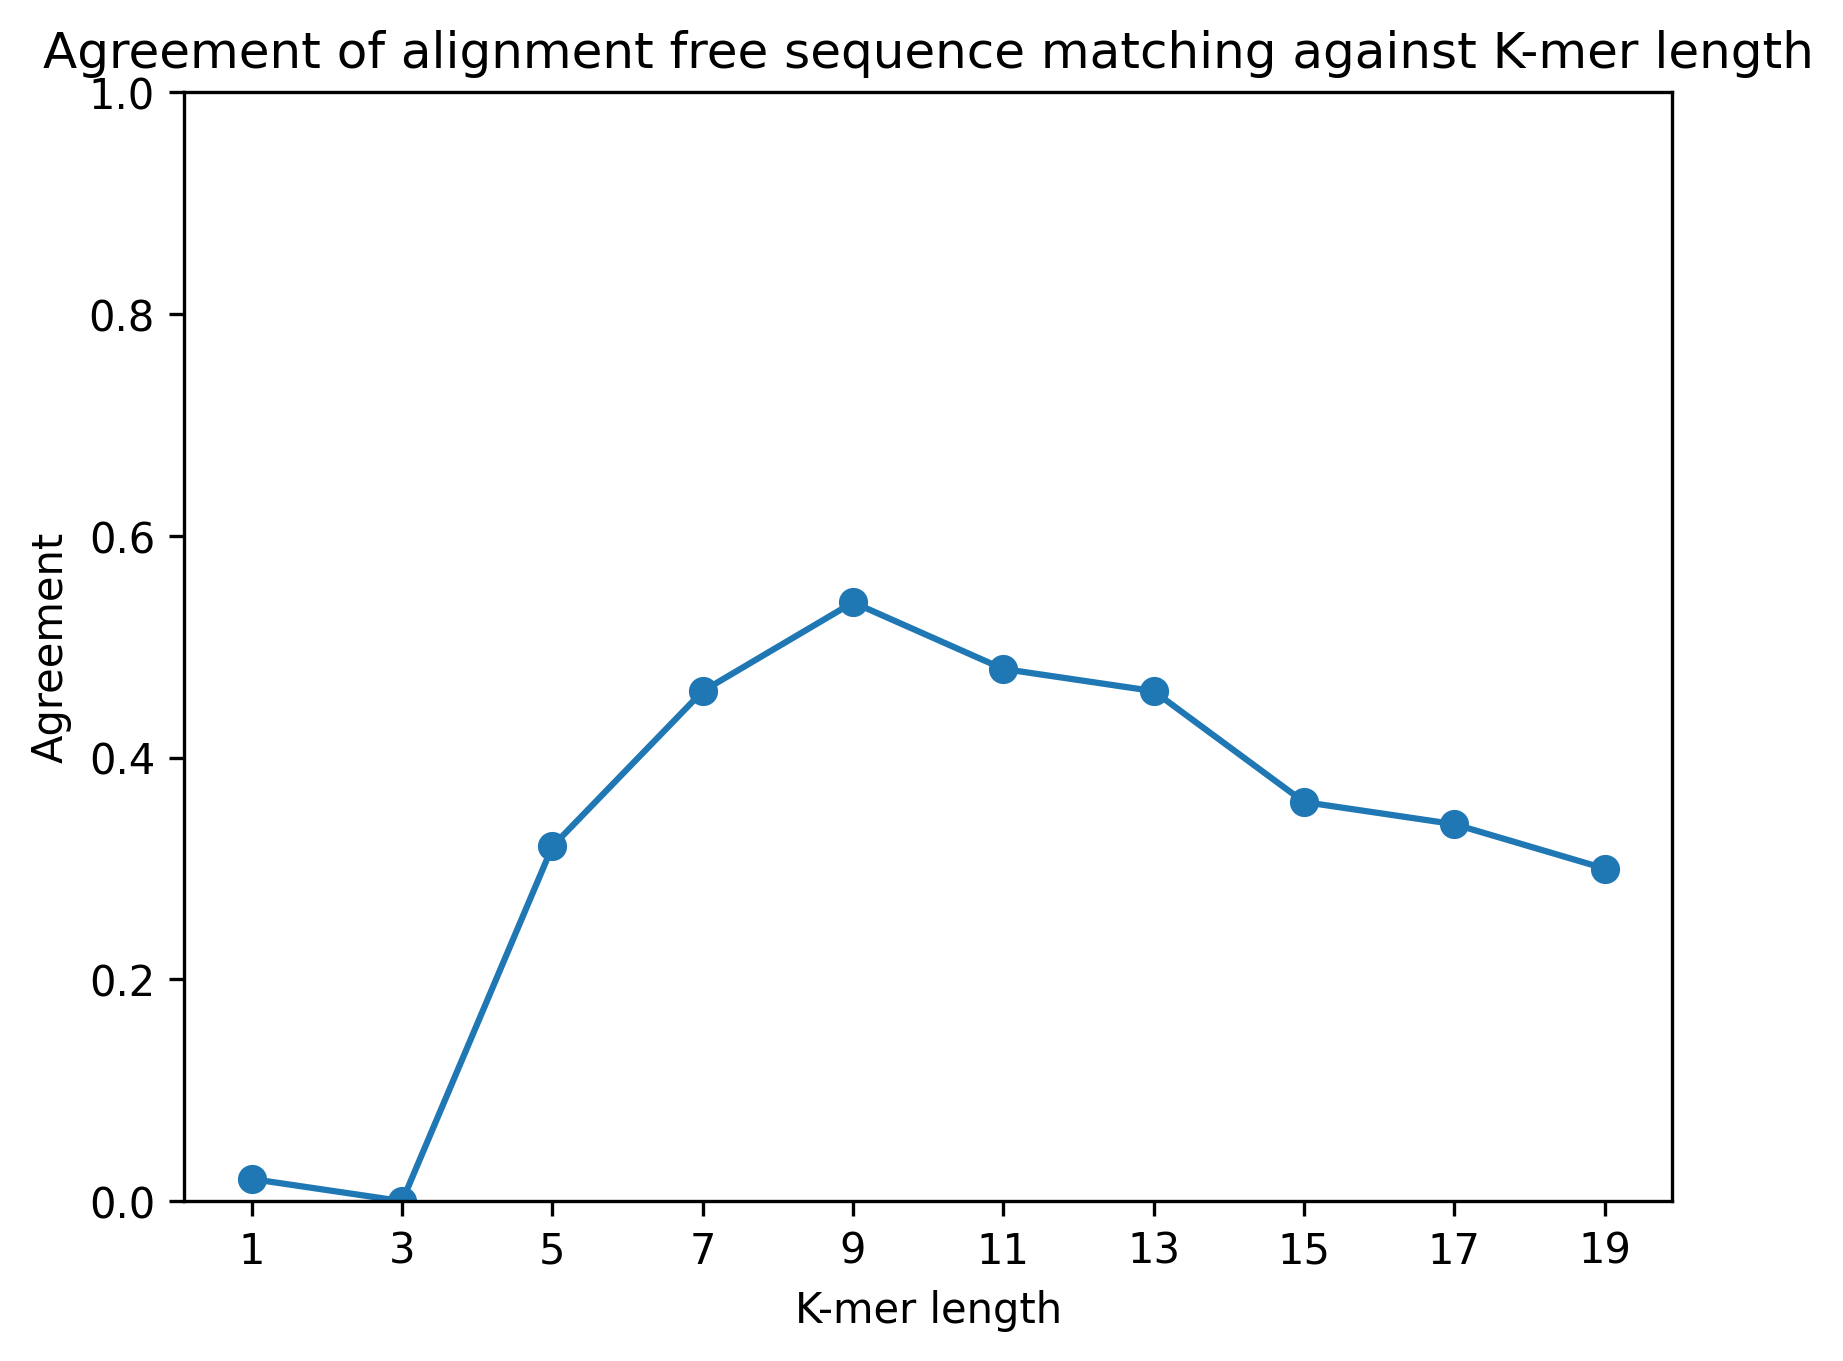
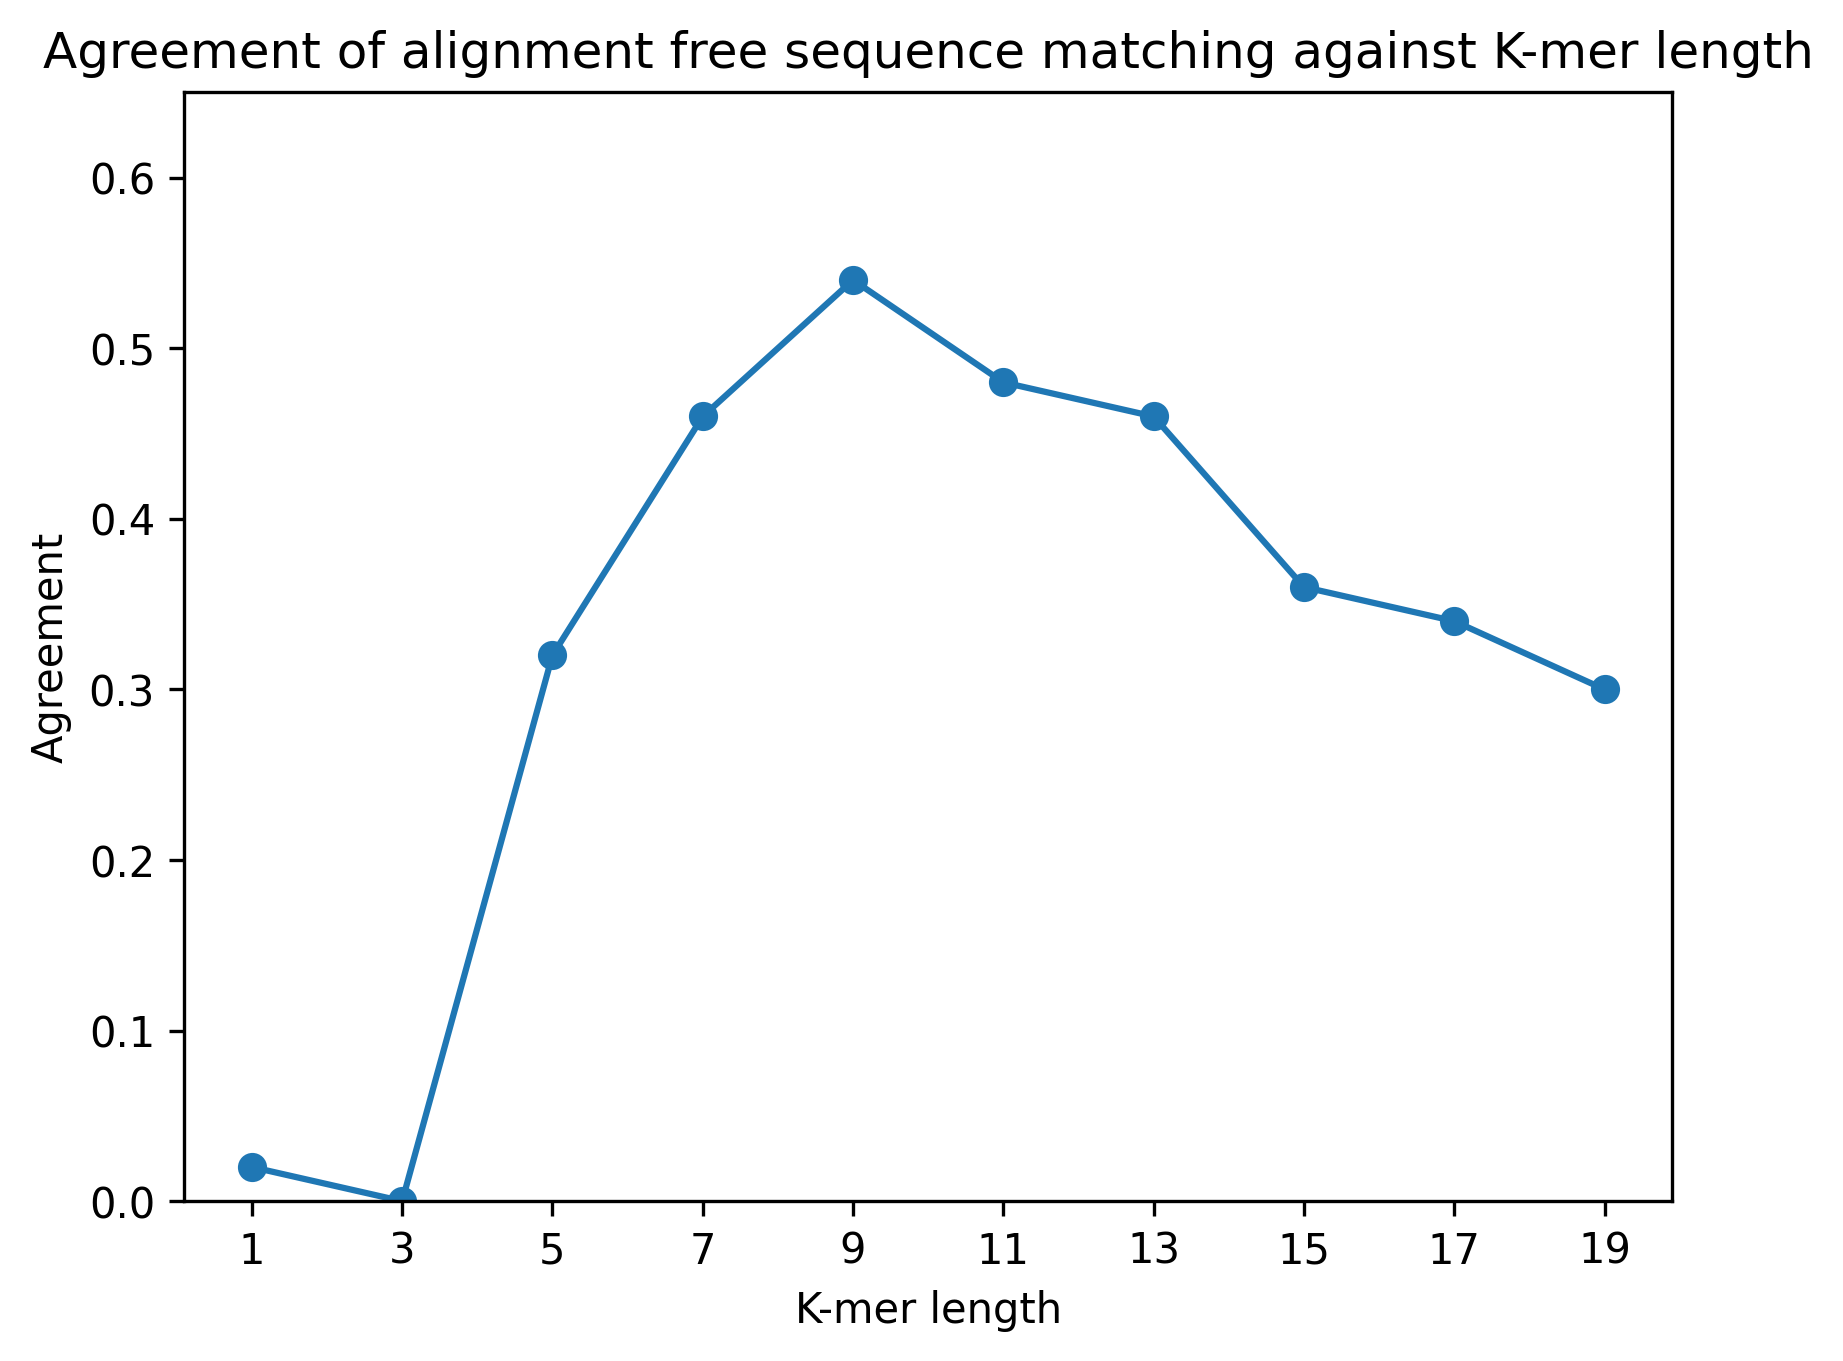
Shift axes

diff --git a/microbiome_test.py b/microbiome_test.py
@@ -185,7 +185,7 @@ def run_alignment_free(database, queries, query_type):
     plt.xlabel('K-mer length')
     plt.ylabel('Agreement')
     plt.title('Agreement of alignment free sequence matching against K-mer length')
-    plt.ylim(0, 1)
+    plt.ylim(0, 0.65)
     plt.xticks(thresholds)
     plt.savefig(f"graphs/agreement_against_kmer_size_{query_type}.png", bbox_inches='tight', dpi=300)
     plt.close()
